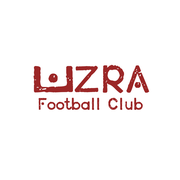
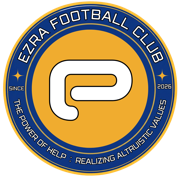
브랜드 리디자인: EZRA FC 로열블루+골드 테마 및 실제 엠블럼 적용
- 다크+그린 → 공식 클럽 브랜드(로열블루 #16428a + 골드 #f5b133) 라이트 테마
- 폰트 Bebas Neue → DM Serif Display + DM Mono
- 헤더 블루 배경 + 골드 라인 + 실제 엠블럼(crest.png)
- 설치 아이콘(512/192/apple-touch/favicon) 신규 엠블럼으로 교체
- 다크 전제 하드코딩 색 전면 보정(출석/수업료/달력/모달 등)

diff --git a/index.html b/index.html
@@ -6,12 +6,15 @@
 <meta name="apple-mobile-web-app-capable" content="yes">
 <meta name="apple-mobile-web-app-status-bar-style" content="black-translucent">
 <meta name="apple-mobile-web-app-title" content="EZRA FC">
-<meta name="theme-color" content="#07090f">
-<link rel="icon" type="image/png" href="favicon.png" />
+<meta name="theme-color" content="#16428a">
+<link rel="icon" type="image/png" href="crest.png" />
+<link rel="icon" type="image/png" sizes="192x192" href="icon-192.png" />
+<link rel="icon" type="image/png" sizes="512x512" href="icon-512.png" />
 <link rel="apple-touch-icon" href="apple-touch-icon.png" />
 <title>EZRA FOOTBALL CLUB</title>
 <link rel="preconnect" href="https://fonts.googleapis.com">
-<link href="https://fonts.googleapis.com/css2?family=Bebas+Neue&family=Noto+Sans+KR:wght@400;500;600;700;900&display=swap" rel="stylesheet">
+<link rel="preconnect" href="https://fonts.gstatic.com" crossorigin>
+<link href="https://fonts.googleapis.com/css2?family=DM+Serif+Display:ital@0;1&family=DM+Mono:wght@400;500&family=Noto+Sans+KR:wght@400;500;600;700;900&display=swap" rel="stylesheet">
 <style>
 /* ── Reset & Base ── */
 *,*::before,*::after{box-sizing:border-box;margin:0;padding:0;-webkit-tap-highlight-color:transparent}
@@ -22,8 +25,8 @@ html{
 }
 body{
   font-family:'Noto Sans KR',sans-serif;
-  background:#07090f;
-  color:#e6ecf8;
+  background:var(--bg);
+  color:var(--txt);
   /* dvh = dynamic viewport height (excludes Safari toolbar).
      Order matters: the vh fallback MUST come first so that on
      browsers supporting dvh the later dvh declaration wins. */
@@ -38,24 +41,28 @@ body{
 
 /* ── CSS Variables ── */
 :root{
-  --bg:#07090f;
-  --bg2:#0c1018;
-  --surf:#111620;
-  --surf2:#171e2c;
-  --surf3:#1d2638;
-  --bdr:#1f2d40;
-  --bdr2:#2a3c52;
-  --txt:#e6ecf8;
-  --txt2:#7a8fa8;
-  --txt3:#3d5068;
-  --grn:#22c55e;
-  --grn2:#16a34a;
-  --grn3:#052e16;
-  --org:#f97316;
-  --red:#ef4444;
-  --blu:#3b82f6;
-  --ylw:#eab308;
-  --pur:#a855f7;
+  /* ── EZRA FOOTBALL CLUB brand — royal blue + gold, light ── */
+  --bg:#f6f5f2;
+  --bg2:#eef0f4;
+  --surf:#ffffff;
+  --surf2:#f4f6f9;
+  --surf3:#e9edf3;
+  --bdr:#e6e2db;
+  --bdr2:#d6d2ca;
+  --txt:#14223b;
+  --txt2:#5b6b82;
+  --txt3:#93a0b3;
+  --grn:#16428a;   /* primary = royal blue */
+  --grn2:#1b50a8;
+  --grn3:#eef3fb;  /* soft blue surface (was dark-green bg) */
+  --org:#e8711c;
+  --red:#d8443a;
+  --blu:#2a66c9;
+  --ylw:#d9a406;
+  --pur:#8b5cf6;
+  --gold:#f5b133;  /* brand gold accent */
+  --gold2:#e09a22;
+  --gold-soft:#fdf3dd;
   /* Safe areas for iPhone notch/home bar */
   --sat: env(safe-area-inset-top, 0px);
   --sab: env(safe-area-inset-bottom, 0px);
@@ -84,8 +91,8 @@ body{
 /* ── Header ── */
 #hdr{
   height:var(--hdr-h);
-  background:var(--surf);
-  border-bottom:1px solid var(--bdr);
+  background:var(--grn);
+  border-bottom:3px solid var(--gold);
   display:flex;
   align-items:center;
   padding:0 16px;
@@ -94,17 +101,16 @@ body{
   position:relative;
   z-index:20;
 }
-.hdr-logo{
-  font-family:'Bebas Neue',sans-serif;
-  font-size:20px;
-  letter-spacing:3px;
-  color:var(--grn);
-  flex-shrink:0;
-}
+.hdr-logo{display:flex;align-items:center;gap:9px;flex-shrink:0}
+.hdr-logo .crest{width:32px;height:32px;flex:0 0 auto;display:block;border-radius:50%}
+.hdr-logo .lg-tx{display:flex;flex-direction:column;line-height:1}
+.hdr-logo .lg-tx b{font-weight:900;font-size:13px;color:#fff;letter-spacing:.2px}
+.hdr-logo .lg-tx i{font-family:'DM Mono',monospace;font-style:normal;font-size:7.5px;letter-spacing:1.6px;color:var(--gold);margin-top:3px}
 .hdr-title{
-  font-family:'Bebas Neue',sans-serif;
-  font-size:20px;
-  letter-spacing:2px;
+  font-family:'DM Serif Display',sans-serif;
+  font-size:21px;
+  letter-spacing:1px;
+  color:#fff;
   position:absolute;
   left:50%;
   transform:translateX(-50%);
@@ -119,8 +125,8 @@ body{
   margin-left:auto;      /* pushes sync + hdr-right group to the right */
   display:flex;align-items:center;justify-content:center;
   width:34px;height:34px;flex-shrink:0;
-  border:1px solid var(--bdr);border-radius:9px;
-  background:var(--surf2);color:var(--txt2);
+  border:1px solid rgba(255,255,255,.25);border-radius:9px;
+  background:rgba(255,255,255,.14);color:#fff;
   font-size:15px;line-height:1;cursor:pointer;
   -webkit-tap-highlight-color:transparent;
   transition:opacity .12s,border-color .15s;
@@ -236,7 +242,7 @@ body{
 }
 .stat-ico{font-size:18px;margin-bottom:6px}
 .stat-lbl{font-size:9px;color:var(--txt3);letter-spacing:1.5px;text-transform:uppercase;margin-bottom:3px}
-.stat-val{font-family:'Bebas Neue',sans-serif;font-size:26px;line-height:1;letter-spacing:1px}
+.stat-val{font-family:'DM Serif Display',sans-serif;font-size:26px;line-height:1;letter-spacing:1px}
 .stat-sub{font-size:10px;color:var(--txt3);margin-top:3px}
 
 /* ── Section ── */
@@ -247,7 +253,7 @@ body{
 .mrow{
   display:flex;align-items:center;gap:11px;
   padding:12px 16px;
-  border-bottom:1px solid rgba(31,45,64,.6);
+  border-bottom:1px solid var(--bdr);
   cursor:pointer;
   /* Active state for iOS (no :hover) */
   -webkit-tap-highlight-color:rgba(22,163,74,.06);
@@ -300,7 +306,7 @@ body{
   -webkit-tap-highlight-color:transparent;
   transition:all .12s;
 }
-.chip.on{background:rgba(34,197,94,.1);color:var(--grn);border-color:rgba(34,197,94,.25)}
+.chip.on{background:rgba(22,66,138,.09);color:var(--grn);border-color:rgba(22,66,138,.25)}
 
 /* ── Progress ── */
 .prog-wrap{display:flex;align-items:center;gap:6px;margin-top:4px}
@@ -316,8 +322,8 @@ body{
   transition:border-color .12s,background .12s;
 }
 .att-card:active{opacity:.75}
-.att-card.present{background:rgba(5,46,22,.7);border-color:#14532d}
-.att-card.late{background:rgba(28,23,0,.7);border-color:#713f12}
+.att-card.present{background:#eaf1fb;border-color:#9ec0ee}
+.att-card.late{background:#fdf3dd;border-color:#eacb8f}
 .att-status{font-size:12px;font-weight:700}
 .att-status.present{color:var(--grn)}
 .att-status.late{color:var(--ylw)}
@@ -328,7 +334,7 @@ body{
   display:flex;justify-content:space-between;align-items:center;
   padding:12px 16px;border-bottom:1px solid var(--bdr);
 }
-.cal-month-lbl{font-family:'Bebas Neue',sans-serif;font-size:22px;letter-spacing:2px}
+.cal-month-lbl{font-family:'DM Serif Display',sans-serif;font-size:20px;letter-spacing:0;white-space:nowrap}
 .cal-grid{display:grid;grid-template-columns:repeat(7,1fr);gap:2px;padding:8px 8px 6px}
 .cal-wday{text-align:center;font-size:9px;color:var(--txt3);padding:5px 0;font-weight:700;letter-spacing:.5px}
 .cal-day{
@@ -339,8 +345,8 @@ body{
   padding:3px 2px;overflow:hidden;
 }
 .cal-day:active{background:var(--surf2)}
-.cal-day.is-today{background:rgba(34,197,94,.08)}
-.cal-day.is-sel{background:rgba(34,197,94,.16);box-shadow:inset 0 0 0 1px rgba(34,197,94,.35)}
+.cal-day.is-today{background:rgba(245,177,51,.16)}
+.cal-day.is-sel{background:rgba(22,66,138,.12);box-shadow:inset 0 0 0 1px rgba(22,66,138,.35)}
 .cal-dn{font-size:11px;font-weight:500;line-height:1;margin-bottom:2px;text-align:center;flex-shrink:0}
 .cal-day.is-today .cal-dn{color:var(--grn);font-weight:700}
 .cal-day.is-sel .cal-dn{color:var(--grn)}
@@ -398,8 +404,8 @@ body{
   -webkit-tap-highlight-color:transparent;
 }
 .pay-card:active{opacity:.75}
-.pay-card.paid{background:rgba(5,46,22,.65);border-color:#14532d}
-.pay-card.unpaid{background:rgba(26,10,10,.65);border-color:#7f1d1d}
+.pay-card.paid{background:#eaf1fb;border-color:#9ec0ee}
+.pay-card.unpaid{background:#fbeceb;border-color:#f0b6b1}
 
 /* ── Bottom Sheet ── */
 .sheet-overlay{
@@ -509,7 +515,7 @@ body{
   box-shadow:0 8px 28px rgba(0,0,0,.4);
 }
 .toast.show{opacity:1;transform:translateY(0)}
-.toast.ok{color:var(--grn);border-color:rgba(34,197,94,.25)}
+.toast.ok{color:var(--grn);border-color:rgba(22,66,138,.25)}
 .toast.err{color:var(--red);border-color:rgba(239,68,68,.25)}
 
 /* ── Animations ── */
@@ -562,7 +568,14 @@ body{
 <body>
 <div id="shell">
   <header id="hdr">
-    <div class="hdr-logo">⚽ EZRA FC</div>
+    <div class="hdr-logo">
+      <img class="crest" src="crest.png" alt="EZRA FC" onerror="this.style.display='none';this.nextElementSibling.style.display='block'">
+      <svg class="crest" viewBox="0 0 100 100" style="display:none" aria-label="EZRA FC">
+        <circle cx="50" cy="50" r="48" fill="#16428a" stroke="#f5b133" stroke-width="3"/>
+        <circle cx="50" cy="50" r="33" fill="#f5b133"/>
+        <path d="M38 34 h18 a12 12 0 0 1 0 24 h-7 v10" fill="none" stroke="#fff" stroke-width="7" stroke-linecap="round" stroke-linejoin="round"/>
+      </svg>
+    </div>
     <div class="hdr-title" id="hdrTitle">대시보드</div>
     <button class="sync-btn" id="syncBtn" onclick="openSyncSheet()" title="기기 동기화">☁</button>
     <div class="hdr-right" id="hdrRight"></div>
@@ -602,7 +615,7 @@ const FREQS   = [1,2,3,4,5];            // 주 N회
 const WEEKS_PER_MONTH = 4;              // 1달 = 4주 (총 횟수 산정 기준)
 const POS     = ['FW','MF','DF','GK','없음'];
 const STATS   = ['활성','휴강','대기'];
-const STC     = {활성:'#22c55e',휴강:'#f97316',대기:'#6b7280'};
+const STC     = {활성:'#16428a',휴강:'#e8711c',대기:'#93a0b3'};
 const LTC_PAL = ['#3b82f6','#22c55e','#f97316','#a855f7','#ef4444','#06b6d4','#eab308','#ec4899'];
 const ECOLS   = ['#22c55e','#3b82f6','#f97316','#a855f7','#ef4444','#06b6d4'];
 const ETITLES = ['정규 레슨','개인 레슨','그룹 레슨','전술 훈련','체력 훈련','대회 준비'];
@@ -977,10 +990,10 @@ function vDash(){
     .sort((a,b)=>a.du-b.du);
   return`
 <div class="hscroll">
-  ${sc('👥','전체 회원',s.total+'명','활성 '+s.active+'명','#3b82f6')}
-  ${sc('✅','오늘 출석',s.todayAtt+'명','평균 '+s.avgAtt+'%','#22c55e')}
-  ${sc('💳','납부 완료',s.paidCnt+'명',W(s.revenue),'#a855f7')}
-  ${sc('⚠','미납',s.unpaidCnt+'명',W(s.pending),'#f97316')}
+  ${sc('👥','전체 회원',s.total+'명','활성 '+s.active+'명','#16428a')}
+  ${sc('✅','오늘 출석',s.todayAtt+'명','평균 '+s.avgAtt+'%','#1f9d55')}
+  ${sc('💳','납부 완료',s.paidCnt+'명',W(s.revenue),'#e09a22')}
+  ${sc('⚠','미납',s.unpaidCnt+'명',W(s.pending),'#d8443a')}
 </div>
 <div class="sec">
   ${payDue.length?`<div class="card" style="padding:14px 15px;margin-bottom:12px;border:1px solid rgba(249,115,22,.35)">
@@ -989,7 +1002,7 @@ function vDash(){
       const overdue=du<0, soon=du<=7;
       const col=overdue?'var(--red)':soon?'var(--org)':'var(--txt2)';
       const tag=overdue?`${-du}일 지남`:du===0?'오늘':`D-${du}`;
-      return `<div onclick="openMemberDetail('${m.id}')" style="display:flex;justify-content:space-between;align-items:center;gap:8px;padding:7px 0;border-top:1px solid rgba(31,45,64,.5);cursor:pointer">
+      return `<div onclick="openMemberDetail('${m.id}')" style="display:flex;justify-content:space-between;align-items:center;gap:8px;padding:7px 0;border-top:1px solid rgba(20,34,59,.08);cursor:pointer">
         <div style="min-width:0"><span style="font-size:13px;font-weight:700">${h(m.name)}</span>
           <span style="font-size:10px;color:var(--txt3)"> · ${h(m.ltype)}${isMembership(m.ltype)?' '+h(m.cat):''}</span>
           <div style="font-size:10px;color:var(--txt3)">잔여 <b style="color:${rem<=2?'var(--red)':'var(--txt2)'}">${rem}회</b> · 결제일 ${np}</div></div>
@@ -1002,7 +1015,7 @@ function vDash(){
       const cnt=members.filter(m=>m.group===g).length;
       const pd=members.filter(m=>m.group===g&&m.paid).length;
       const pct=members.length?(cnt/members.length)*100:0;
-      const gc=['#22c55e','#3b82f6','#f97316','#a855f7','#ef4444'][gi];
+      const gc=['#16428a','#f5b133','#2a66c9','#e09a22','#8b5cf6'][gi];
       return`<div style="margin-bottom:11px">
         <div style="display:flex;justify-content:space-between;font-size:12px;margin-bottom:5px">
           <span style="color:var(--txt2)">${g}</span>
@@ -1026,11 +1039,11 @@ function vDash(){
       <div class="sec-title">레슨 모집 현황</div>
       <div style="display:flex;gap:7px;flex-wrap:wrap;margin-bottom:${recr.length?'10px':'0'}">
         <span class="rec-badge" style="background:#f9731622;color:#f97316">모집중 ${recr.length}</span>
-        <span class="rec-badge" style="background:#22c55e22;color:#22c55e">개강 확정 ${conf}</span>
+        <span class="rec-badge" style="background:#16428a1a;color:#16428a">개강 확정 ${conf}</span>
         ${full?`<span class="rec-badge" style="background:#6b728022;color:#6b7280">마감 ${full}</span>`:''}
       </div>
       ${recr.slice(0,6).map(e=>{const st=evStatus(e);const need=Math.max(0,(+e.min||0)-evEnrolled(e));const p=e.date.split('-');
-        return `<div onclick="go('schedule')" style="display:flex;justify-content:space-between;align-items:center;gap:8px;padding:6px 0;border-top:1px solid rgba(31,45,64,.5);cursor:pointer">
+        return `<div onclick="go('schedule')" style="display:flex;justify-content:space-between;align-items:center;gap:8px;padding:6px 0;border-top:1px solid rgba(20,34,59,.08);cursor:pointer">
           <div style="min-width:0"><span style="font-size:12px;color:var(--txt3)">${+p[1]}/${+p[2]}</span> <span style="font-size:13px;font-weight:600">${h(e.title)}</span></div>
           <span style="font-size:11px;color:var(--org);font-weight:700;flex-shrink:0;white-space:nowrap">${st.txt} · ${need}명 더</span>
         </div>`;}).join('')}
@@ -1222,7 +1235,7 @@ function evStatus(e){
   if(!min && !cap) return null;
   const denom = min || cap;
   if(cap && cur>=cap)      return {label:'마감',     color:'#6b7280', txt:`${cur}/${cap}`};
-  if(min && cur>=min)      return {label:'개강 확정', color:'#22c55e', txt:`${cur}/${denom}`};
+  if(min && cur>=min)      return {label:'개강 확정', color:'#16428a', txt:`${cur}/${denom}`};
   return {label:'모집중', color:'#f97316', txt:`${cur}/${denom}`};
 }
 function vSched(){
@@ -1324,7 +1337,7 @@ function openEvtAttend(id){
         <div style="min-width:0"><div style="font-size:13px;font-weight:700">${h(m.name)}</div>
           <div style="font-size:10px;color:var(--txt3)">${h(m.ltype)}${isMembership(m.ltype)?' · '+h(m.cat):''}</div></div>
       </div>
-      <div style="display:flex;gap:6px">${btn('present','출석 ✓','#22c55e')}${btn('late','지각 !','#f97316')}${abBtn}</div>
+      <div style="display:flex;gap:6px">${btn('present','출석 ✓','#16428a')}${btn('late','지각 !','#f97316')}${abBtn}</div>
     </div>`;
   }).join('');
   showSheet(`출석 · ${e.title}`,`
@@ -1352,7 +1365,7 @@ function vPay(){
   const pr=members.length?~~((s.paidCnt/members.length)*100):0;
   return`
 <div class="hscroll">
-  ${sc('✅','납부 완료',W(s.revenue),s.paidCnt+'명','#22c55e')}
+  ${sc('✅','납부 완료',W(s.revenue),s.paidCnt+'명','#16428a')}
   ${sc('❌','미납',W(s.pending),s.unpaidCnt+'명','#f97316')}
   ${sc('📊','납부율',pr+'%',`${s.paidCnt}/${s.total}명`,'#a855f7')}
 </div>
@@ -1362,10 +1375,10 @@ function vPay(){
     ${cfg.groups.map((g,gi)=>{
       const gm=members.filter(m=>m.group===g);
       const pd=gm.filter(m=>m.paid).length;
-      const gc=['#22c55e','#3b82f6','#f97316','#a855f7','#ef4444'][gi];
+      const gc=['#16428a','#f5b133','#2a66c9','#e09a22','#8b5cf6'][gi];
       return`<div class="stat-card" style="border-top:2px solid ${gc};min-width:100px;padding:10px 12px">
         <div style="font-size:9px;color:var(--txt3);margin-bottom:3px">${h(g)}</div>
-        <div style="font-family:'Bebas Neue',sans-serif;font-size:22px;color:${gc}">${pd}/${gm.length}</div>
+        <div style="font-family:'DM Serif Display',sans-serif;font-size:22px;color:${gc}">${pd}/${gm.length}</div>
         <div style="font-size:9px;color:var(--txt3)">${gm.length?~~(pd/gm.length*100):0}%</div>
       </div>`;
     }).join('')}
@@ -1787,7 +1800,7 @@ function openMemberDetail(id){
       return `<div style="display:flex;gap:10px;padding:0 16px 4px">
         <div style="flex:1;background:var(--bg2);border-radius:10px;padding:11px 12px">
           <div style="font-size:10px;color:var(--txt3);margin-bottom:4px">남은 횟수</div>
-          <div style="font-family:'Bebas Neue',sans-serif;font-size:24px;color:${remCol}">${rem}<span style="font-size:13px;color:var(--txt3)"> / ${tot}회</span></div>
+          <div style="font-family:'DM Serif Display',sans-serif;font-size:24px;color:${remCol}">${rem}<span style="font-size:13px;color:var(--txt3)"> / ${tot}회</span></div>
         </div>
         <div style="flex:1;background:var(--bg2);border-radius:10px;padding:11px 12px">
           <div style="font-size:10px;color:var(--txt3);margin-bottom:4px">다음 결제일</div>
@@ -1804,7 +1817,7 @@ function openMemberDetail(id){
       ${discPct(m)>0?`<div class="info-cell" style="grid-column:1/-1"><div class="info-lbl">할인 전 금액</div><div class="info-val" style="text-decoration:line-through;color:var(--txt3)">${W(baseFee(m))}</div></div>`:''}
     </div>
     <div style="padding:0 16px 8px">
-      <button class="pay-toggle" style="background:${m.paid?'rgba(34,197,94,.12)':'rgba(249,115,22,.12)'};color:${m.paid?'var(--grn)':'var(--org)'};"
+      <button class="pay-toggle" style="background:${m.paid?'rgba(22,66,138,.12)':'rgba(232,113,28,.12)'};color:${m.paid?'var(--grn)':'var(--org)'};"
         onclick="togglePaid('${m.id}');closeSheet();renderPage()">
         ${m.paid?'✓ 납부완료 — 취소하기':'⚠ 미납 — 납부 처리하기'}
       </button>
@@ -1857,7 +1870,7 @@ function openMemberForm(id){
       <div class="fg"><label class="fl">회원 할인 (%)</label>
         <input class="fi" type="number" inputmode="numeric" id="fdisc" value="${m?.discount||0}" oninput="recalcFee()"></div>
       <div class="fg"><label class="fl">결제 금액</label>
-        <div class="fi-fee"><div id="feeShow" style="font-family:'Bebas Neue',sans-serif;font-size:20px;color:var(--grn)"></div></div>
+        <div class="fi-fee"><div id="feeShow" style="font-family:'DM Serif Display',sans-serif;font-size:20px;color:var(--grn)"></div></div>
       </div>
     </div>
     <div class="fg"><label class="fl">메모</label>
